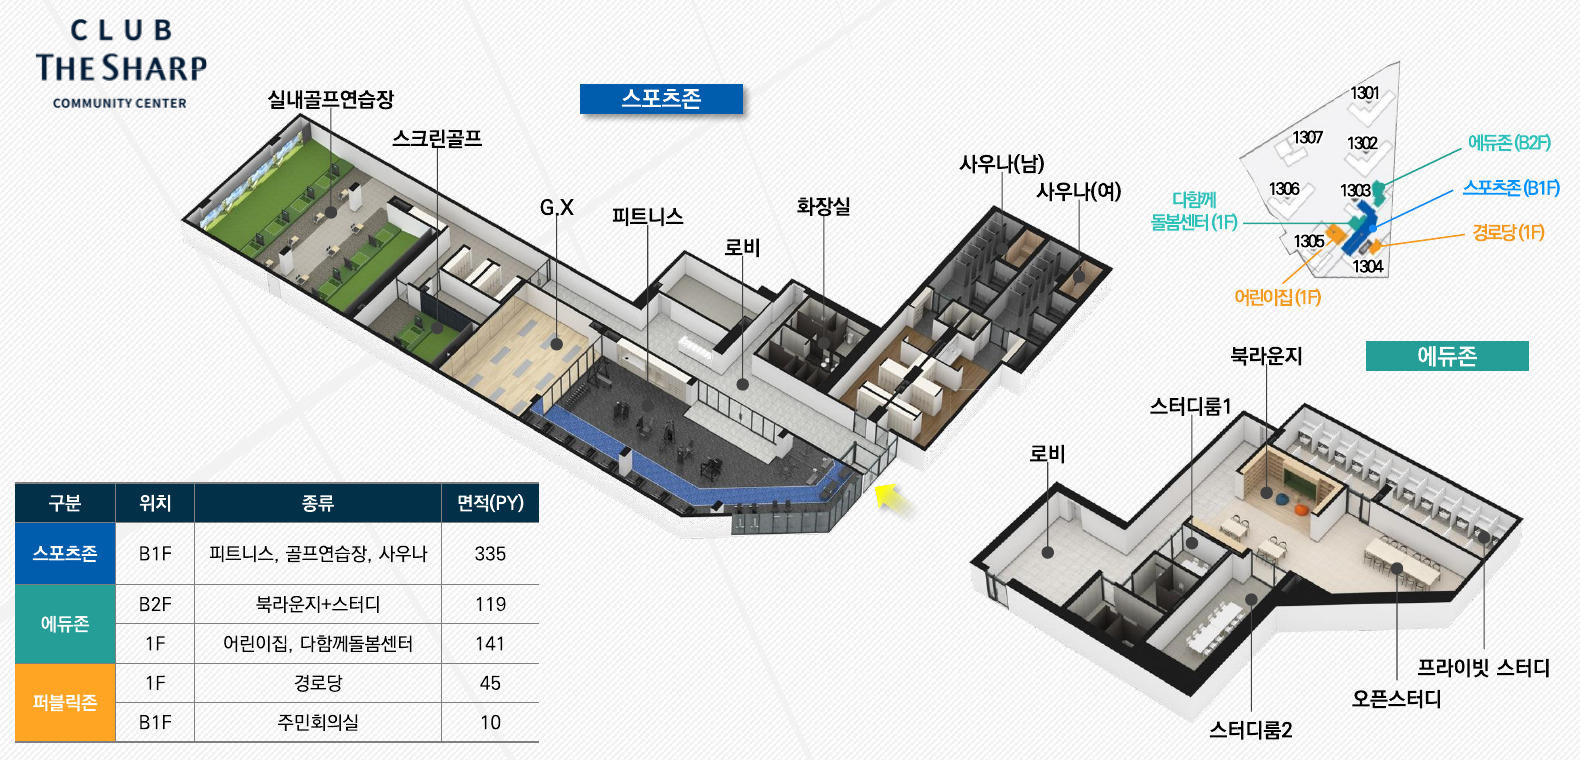
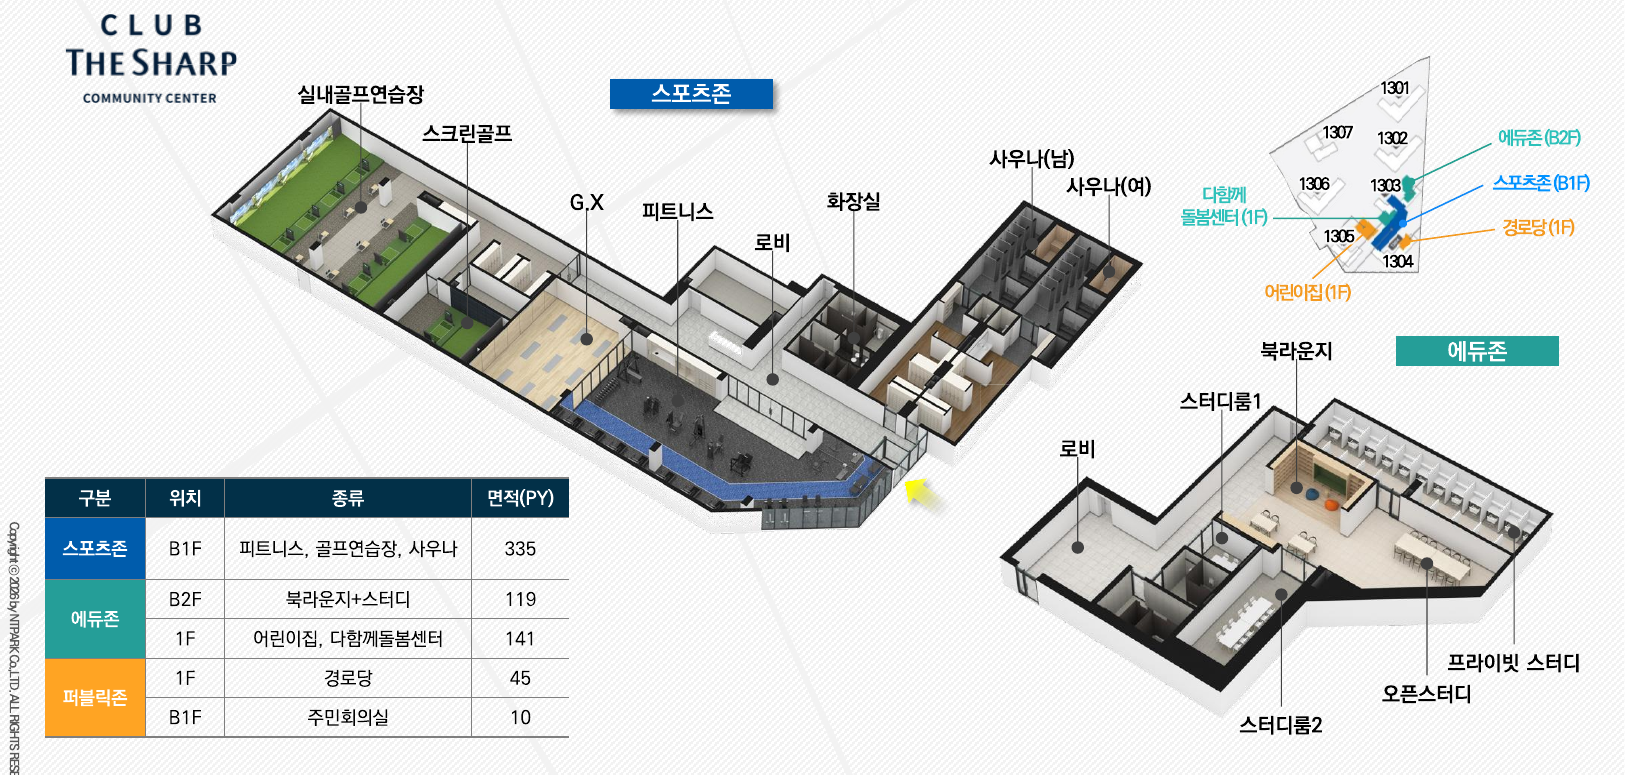
re-crop community image with full width and complete table

diff --git a/scripts/crop.py b/scripts/crop.py
@@ -41,8 +41,8 @@ CROPS = [
     ("page-19.png", (295, 100, 755, 475), "unit-84b.png"),
     # 104A 평면도 (page-22)
     ("page-22.png", (295, 100, 755, 475), "unit-104a.png"),
-    # 클럽 더샵 3D 일러스트 + 시설표 (page-26)
-    ("page-26.png", (30, 275, 1580, 760), "community.png"),
+    # 클럽 더샵 3D 일러스트 + 시설표 (page-26, 전체 콘텐츠 영역)
+    ("page-26.png", (0, 280, 1625, 775), "community.png"),
 ]
 
 for src, (x, y, w, h), out in CROPS:
